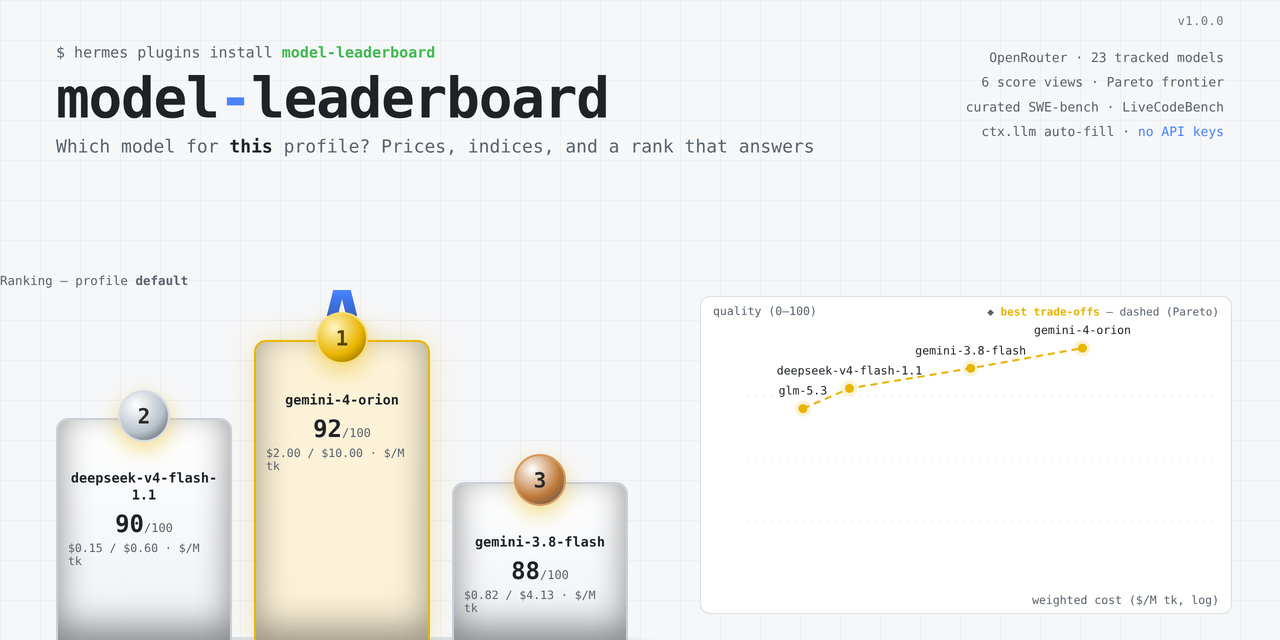
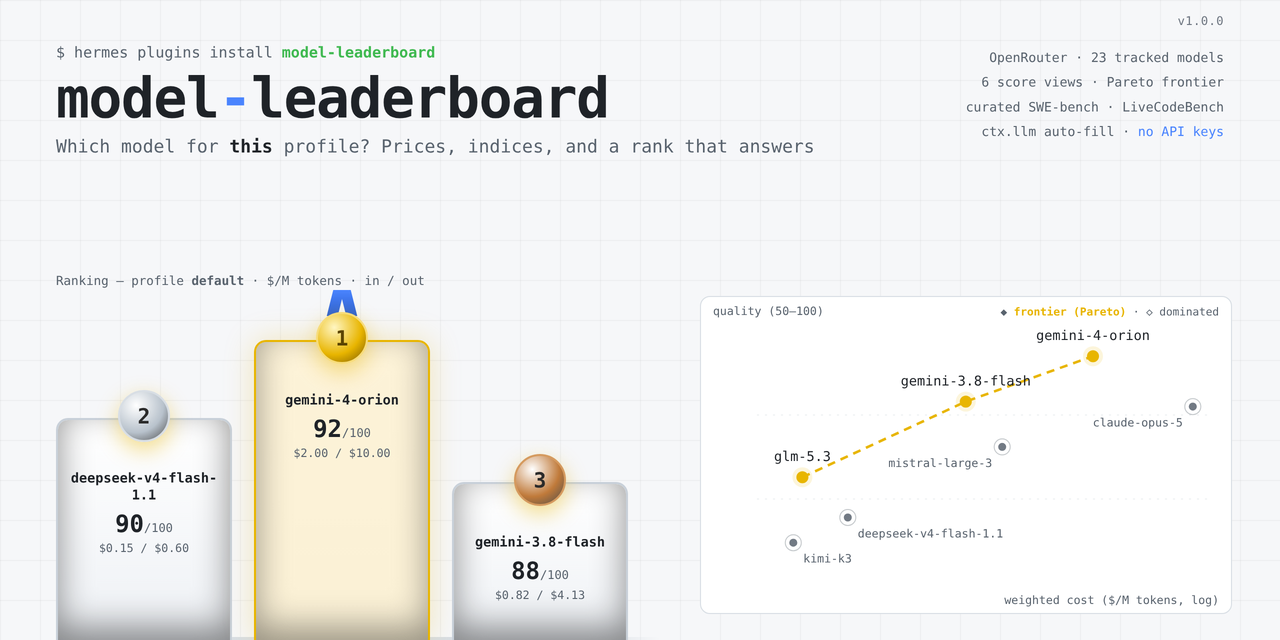
fix(card,captures): the defects this pass turned up, all of them real
- the card's "Ranking" line sat flush against the left edge with its first letter
  clipped: .podium-note is a SIBLING of .podium, so its containing block is the card's
  padding box, where left:0 is the trimmed edge — not the 56px margin the headline and
  the install line use;
- the plot spent half its box on empty space (a 0-100 quality axis under a frontier that
  lives between 70 and 95) and its labels collided. It now draws a zoomed 50-100 window,
  names THREE frontier models in a larger face, and adds four dominated points under the
  dashed line — without models below the line, a "frontier" is just a line through every
  dot and the picture says nothing;
- the plot's dot labels reused the .tag class the tagline also uses, so the plot was
  restyling the headline's second line (renamed .ptag);
- a run killed mid-screencast leaves Chrome with the PAGE DOMAIN MUTE: captureScreenshot
  never answers again while Runtime keeps answering, and nothing short of restarting the
  app clears it (stopScreencast, bringToFront and setDeviceMetricsOverride all fail to).
  open() now probes with a 20 s screenshot and prints exactly that — plus the fix —
  instead of hanging for two minutes in the middle of a run, and the cleanup calls
  abort_screencast() so a failed run stops its own cast.

Also in shots.py: the profile demo. The chip row lists INSTALLED Hermes profiles, not
the plugin's scoring store, so the run creates three real profiles through the CLI,
[…]

diff --git a/scripts/card.py b/scripts/card.py
@@ -70,15 +70,21 @@ BARS = [
     ("glm-5.3", 86, "$0.08 / $1.40", ""),
 ]
 
-#: The plot: FOUR models only — a catalogue card is a poster, and four points read at a
-#: glance where eight turn into confetti. (name, cost %, quality %) — all four sit on the
-#: frontier, so the dashed line is the whole story: nothing cheaper is better.
-POINTS = [
-    ("glm-5.3", 12, 70),
-    ("deepseek-v4-flash-1.1", 22, 78),
-    ("gemini-3.8-flash", 48, 86),
-    ("gemini-4-orion", 72, 94),
+#: The plot is ZOOMED on purpose: the frontier models all live in the top band, and a
+#: 0–100 quality axis spent half the box on empty space below the dashed line.
+POINTS = [  # (name, cost %, quality %, on the frontier)
+    ("glm-5.3", 10, 71, True),
+    ("gemini-3.8-flash", 46, 86, True),
+    ("gemini-4-orion", 74, 95, True),
+    # Deliberate filler BELOW the line — without dominated models a "frontier" is just a
+    # line through every dot, and the picture says nothing.
+    ("kimi-k3", 8, 58, False),
+    ("deepseek-v4-flash-1.1", 20, 63, False),
+    ("mistral-large-3", 54, 77, False),
+    ("claude-opus-5", 96, 85, False),
 ]
+Y_MIN, Y_MAX = 50, 100      # the quality window the card shows (zoom)
+X_MIN, X_MAX = 0, 100       # the cost window
 
 
 def version() -> str:
@@ -161,8 +167,11 @@ PODIUM_CSS = f"""
             background:linear-gradient(180deg, {BLUE}, #2b5fd0); }}
   .ribbon::before {{ left:0; transform:skewX(-14deg); }}
   .ribbon::after {{ right:0; transform:skewX(14deg); }}
-  .podium-note {{ position:absolute; left:0; bottom:352px; font-size:12.5px; color:{MUTED}; }}
+  .podium-note {{ position:absolute; left:56px; bottom:352px; font-size:12.5px; color:{MUTED}; }}
 """
+# NOTE: `.podium-note` is a SIBLING of `.podium`, so its containing block is the card's
+# padding box — `left:0` put it flush against the trimmed edge (the first letter was cut).
+# 56px is the card margin the headline and the install line use.
 
 
 def podium_body() -> str:
@@ -203,34 +212,57 @@ def plot_body(*, left: int, right: int, bottom: int, height: int) -> str:
 
     SVG rather than absolutely-positioned divs: the frontier is a sloped dashed line, and
     a dashed border on a rotated div stretches its dashes with the box. Here the geometry
-    is computed in pixels from the box size the caller asked for.
+    is computed in pixels from the box size the caller asked for, over the zoomed
+    Y_MIN..Y_MAX / X_MIN..X_MAX window.
     """
     width = WIDTH - left - right
-    pad_l, pad_r, pad_t, pad_b = 46, 20, 36, 30
+    pad_l, pad_r, pad_t, pad_b = 56, 22, 34, 32
     inner_w, inner_h = width - pad_l - pad_r, height - pad_t - pad_b
 
-    def px(xp: float, yp: float) -> tuple[float, float]:
-        return (pad_l + xp / 100 * inner_w, height - pad_b - yp / 100 * inner_h)
+    def px(cost: float, qual: float) -> tuple[float, float]:
+        return (pad_l + (cost - X_MIN) / (X_MAX - X_MIN) * inner_w,
+                height - pad_b - (qual - Y_MIN) / (Y_MAX - Y_MIN) * inner_h)
 
-    pts = [(name, *px(x, y)) for name, x, y in POINTS]
+    frontier = sorted(((n, *px(c, q)) for n, c, q, on in POINTS if on), key=lambda t: t[1])
+    dominated = [(n, *px(c, q)) for n, c, q, on in POINTS if not on]
+
     grid = "".join(
-        f'<line x1="{pad_l}" y1="{height - pad_b - i * inner_h / 4:.1f}" x2="{width - pad_r}" '
-        f'y2="{height - pad_b - i * inner_h / 4:.1f}" stroke="{BORDER}" stroke-width="1" '
-        f'stroke-dasharray="2 6" opacity=".5"/>' for i in range(1, 4))
-    line = " ".join(f"{x:.1f},{y:.1f}" for _n, x, y in pts)
+        f'<line x1="{pad_l}" y1="{height - pad_b - i * inner_h / 3:.1f}" x2="{width - pad_r}" '
+        f'y2="{height - pad_b - i * inner_h / 3:.1f}" stroke="{BORDER}" stroke-width="1" '
+        f'stroke-dasharray="2 6" opacity=".5"/>' for i in range(1, 3))
+    line = " ".join(f"{x:.1f},{y:.1f}" for _n, x, y in frontier)
+
     dots = "".join(
-        f'<circle cx="{x:.1f}" cy="{y:.1f}" r="8" fill="{GOLD}" opacity=".16"/>'
-        f'<circle cx="{x:.1f}" cy="{y:.1f}" r="4.5" fill="{GOLD}"/>' for _n, x, y in pts)
-    labels = "".join(
-        f'<text x="{x:.1f}" y="{y - 14:.1f}" fill="{FG}" font-size="11.5" font-family="{MONO}" '
-        f'text-anchor="middle">{_html.escape(name)}</text>' for name, x, y in pts)
+        f'<circle cx="{x:.1f}" cy="{y:.1f}" r="10" fill="{GOLD}" opacity=".14"/>'
+        f'<circle cx="{x:.1f}" cy="{y:.1f}" r="6" fill="{GOLD}"/>' for _n, x, y in frontier)
+    dots += "".join(
+        f'<circle cx="{x:.1f}" cy="{y:.1f}" r="4" fill="{MUTED}" opacity=".85"/>'
+        f'<circle cx="{x:.1f}" cy="{y:.1f}" r="8" fill="none" stroke="{MUTED}" '
+        f'stroke-width="1" opacity=".35"/>' for _n, x, y in dominated)
+
+    def label(name: str, x: float, y: float, *, big: bool) -> str:
+        # frontier names sit above their dot (below it near the top edge, where "above"
+        # would leave the box); the filler names sit under theirs, pushed to the side that
+        # has room, so no two labels collide
+        if big:
+            dy, anchor, dx = (-16, "middle", 0) if y > pad_t + 22 else (22, "middle", 0)
+            size, colour = 13.5, FG
+        else:
+            dy, size, colour = 20, 11.5, MUTED
+            anchor, dx = ("end", -10) if x > width / 2 else ("start", 10)
+        return (f'<text x="{x + dx:.1f}" y="{y + dy:.1f}" fill="{colour}" font-size="{size}" '
+                f'font-family="{MONO}" text-anchor="{anchor}">{_html.escape(name)}</text>')
+
+    labels = "".join(label(n, x, y, big=True) for n, x, y in frontier)
+    labels += "".join(label(n, x, y, big=False) for n, x, y in dominated)
+
     return f"""<div class="plot" style="left:{left}px;right:{right}px;bottom:{bottom}px;height:{height}px">
-    <div class="legend">◆ <b>best trade-offs</b> — dashed (Pareto)</div>
-    <div class="axis" style="left:12px; top:8px">quality (0–100)</div>
-    <div class="axis" style="right:12px; bottom:6px">weighted cost ($/M tk, log)</div>
+    <div class="legend">◆ <b>frontier (Pareto)</b> · ◇ dominated</div>
+    <div class="axis" style="left:12px; top:8px">quality ({Y_MIN}–{Y_MAX})</div>
+    <div class="axis" style="right:12px; bottom:6px">weighted cost ($/M tokens, log)</div>
     <svg width="{width}" height="{height}">
       {grid}
-      <polyline points="{line}" fill="none" stroke="{GOLD}" stroke-width="2" stroke-dasharray="7 5"/>
+      <polyline points="{line}" fill="none" stroke="{GOLD}" stroke-width="2.5" stroke-dasharray="8 6"/>
       {dots}
       {labels}
     </svg>

diff --git a/scripts/shots.py b/scripts/shots.py
@@ -189,7 +189,32 @@ class Desktop:
         self._pump = asyncio.create_task(self._read_loop())
         await self.call("Page.enable")
         await self.call("Runtime.enable")
+        # Pre-flight: a run that dies mid-screencast leaves Chrome with the Page domain
+        # mute — captureScreenshot never answers again (Runtime still does) until the app
+        # is restarted. One line here beats a two-minute hang followed by a confusing
+        # "no answer within 120s" in the middle of a capture run.
+        try:
+            probe = await asyncio.wait_for(
+                self.call("Page.captureScreenshot", {"format": "png"}), timeout=20)
+        except Exception:
+            probe = None
+        if not probe:
+            await self.abort_screencast()
+            raise SystemExit(
+                "STOP: the Page domain is mute (no screenshot came back in 20 s).\n"
+                "      An earlier run left a screencast running — restart the desktop app\n"
+                "      (pkill -f remote-debugging-port=9222, then relaunch) and re-run.")
         return page
+
+    async def abort_screencast(self):
+        """Stop a cast left behind by a failed run. Safe to call at any time."""
+        if not self.screencasting:
+            return
+        try:
+            await asyncio.wait_for(self.call("Page.stopScreencast"), timeout=10)
+        except Exception:
+            pass
+        self.screencasting = False
 
     async def _read_loop(self):
         """Pump the socket: ack every screencast frame, resolve every pending call."""
@@ -974,6 +999,8 @@ async def main():
                 await resize_sidebar(ui, int(RESTORE["sidebar"]))
         except Exception as exc:
             print(f"  ! could not restore the sidebar: {exc}")
+        # a cast still running when the process dies is what poisons the NEXT run
+        await ui.abort_screencast()
         try:
             await restore_profile(ui)
         except Exception as exc:
